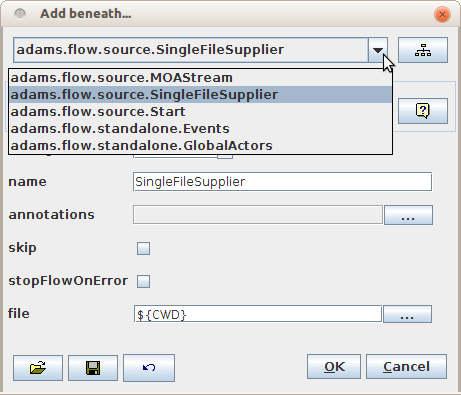
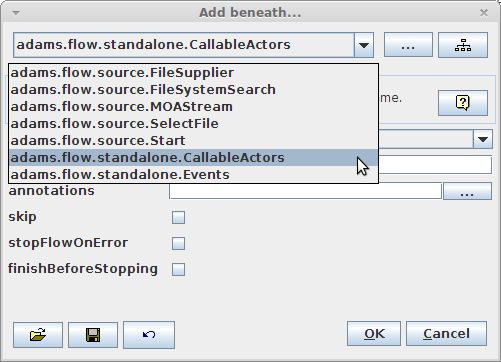
updated screenshots

Changed region(s): [[0.0, 0.0, 1.0, 1.0], [0.3341, 0.6685, 0.3948, 0.6989]]

diff --git a/user_start.html b/user_start.html
@@ -113,7 +113,10 @@
                       <p><img src="img/examples/actorsuggestions-context4.png" /></p>
                       <p>And finally, we add the <em>Display</em> sink for viewing the result of the cross-validation:</p>
                       <p><img src="img/examples/actorsuggestions-context5.png" /></p>
-                      <p>Before the flow can be executed, you still need to add a <em>CallableActors</em> standalone actor before the source actor. To this special container actor, you will add (and configure) a <em>WekaClassifierSetup</em> source. This is the source that the <em>WekaCrossValidationEvaluator</em> references.</p>
+                      <p>Before the flow can be executed, we still need to provide the cross-validation evaluator with a classifier setup. This is done by configuring a <em>callable</em> source actor below the special <em>CallableActors</em> standalone:</p>
+                      <p><img src="img/examples/actorsuggestions-context6.png" /></p>
+                      <p>The <em>WekaClassifierSetup</em> source simply outputs a classifier setup:</p>
+                      <p><img src="img/examples/actorsuggestions-context7.png" /></p>
                     </div>
                   </div>
                 </div>
